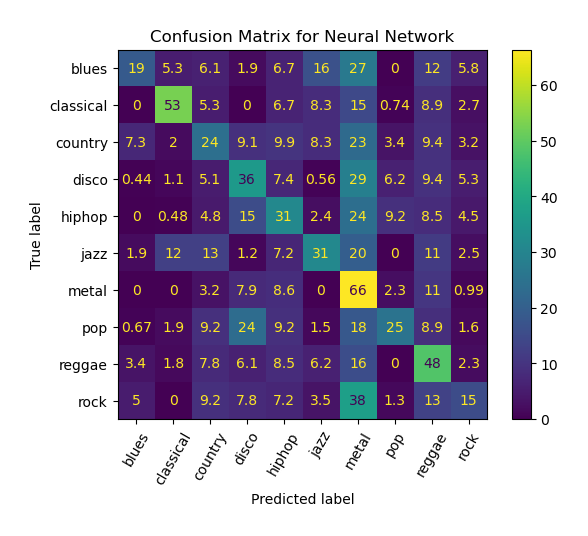
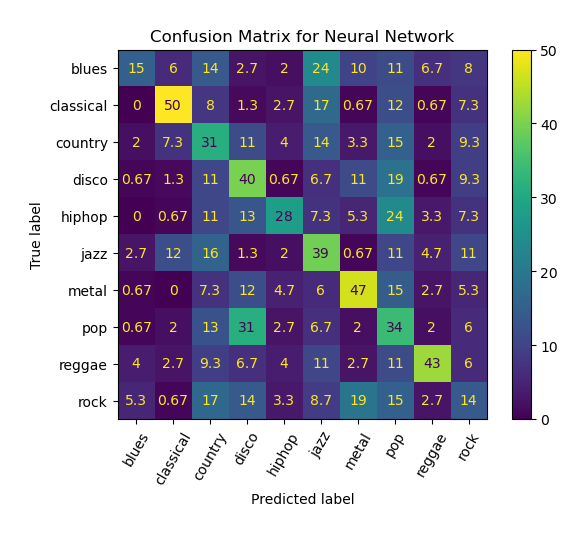
fix: kfold with equal number of sample from each genre

diff --git a/Train.py b/Train.py
@@ -1,5 +1,5 @@
 from sklearn.preprocessing import LabelEncoder
-from sklearn.model_selection import KFold
+from sklearn.model_selection import StratifiedKFold
 from sklearn.metrics import confusion_matrix, ConfusionMatrixDisplay
 import numpy as np
 import matplotlib.pyplot as plt
@@ -21,9 +21,9 @@ class Train:
         return label_encoder
 
     def train_with_model(self, model):
-        kf = KFold(n_splits=5, shuffle=True)
+        kf = StratifiedKFold(n_splits=5, random_state=None, shuffle=False)
 
-        for train_index, test_index in kf.split(self.X):
+        for train_index, test_index in kf.split(self.X, self.Y):
             x_train, x_test = self.X[train_index], self.X[test_index]
             y_train, y_test = self.Y[train_index], self.Y[test_index]
 
